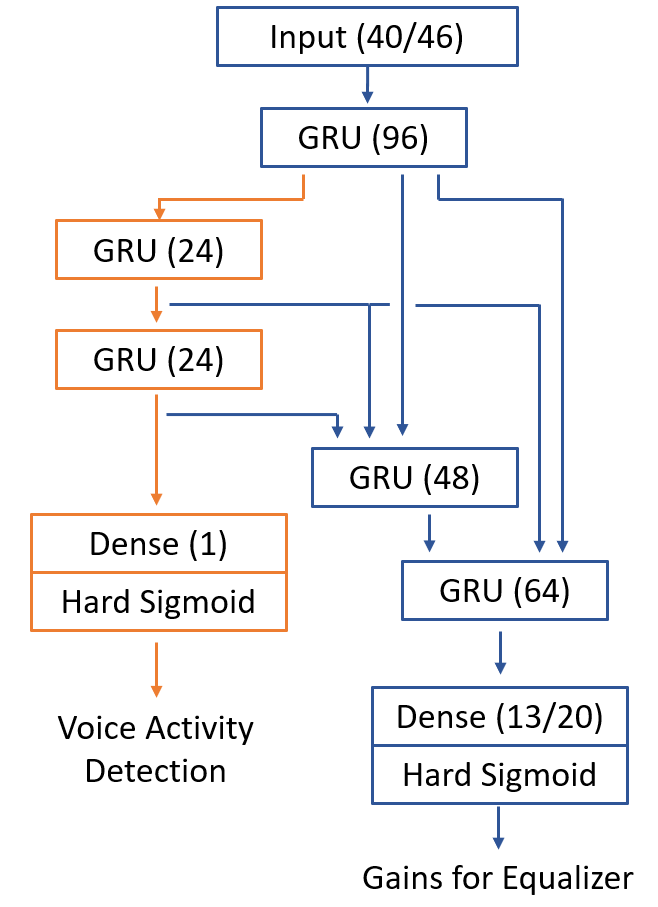
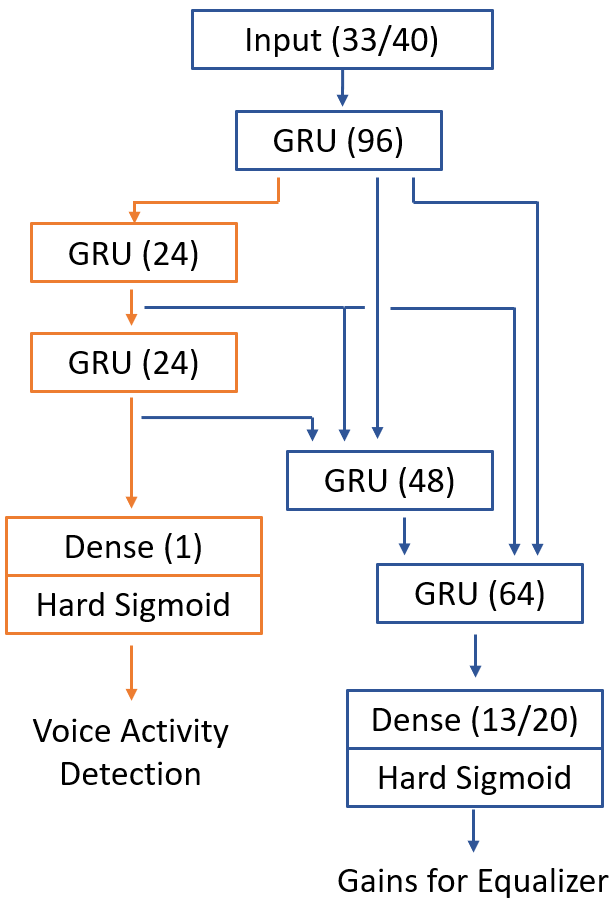
Update doc

Changed region(s): [[0.0, 0.0, 0.9886, 1.0]]

diff --git a/examples/rnn-denoise/README.md b/examples/rnn-denoise/README.md
@@ -2,26 +2,28 @@
 
 Also know as `rnn-denoise example`. 
 
-This example is partially based on the methodology provided by the well-known [RNNoise](https://jmvalin.ca/demo/rnnoise/) project, [paper](https://arxiv.org/abs/1709.08243). Great thanks to them!
+This example is partially based on the methodology provided by the well-known [RNNoise](https://jmvalin.ca/demo/rnnoise/) project and their [paper](https://arxiv.org/abs/1709.08243) . Great thanks to them!
 
 # A few key points before you start
 
 ## How does denoise works with Neural Network?
 
-The [RNNoise](https://jmvalin.ca/demo/rnnoise/) and the paper already explain the methodology we used in this project. 
+The [RNNoise](https://jmvalin.ca/demo/rnnoise/)  has already explained the methodology we used in this project. 
 
-Basically, we use the neural network model to control an audio Equalizer (EQ) in a very high frequency, therefore to suppress those bands contained noise. 
+Basically, we use a neural network model to control an audio Equalizer (EQ) in a very high frequency, therefore to suppress those bands contained noise while keep the gains contain speech. 
 
-Unlike the conventional neural networks output the signal directly, our NN model instead output the gains for each filter band in Equalizer.
+Unlike the conventional neural networks output the signal directly, our NN model instead output the gains for each filter band in the equalizer.
 
-The NN model uses the Mel-Scale to detect MFCC to determine the gains, instead of Opus scale (RNNoise) or Bark scale. 
+The example uses MFCC (Mel-scale) to determine the gains, instead of Opus scale (RNNoise) or Bark scale. 
+
+![](figures/general_workflow.png)
 
 
 # Step by step Guide
 
 ## Get the Noisy Speech
 
-This example uses [Microsoft Scalable Noisy Speech Dataset](https://github.com/microsoft/MS-SNSD)(MS-SNSD). If you want to train your own model, you shall download the data set from the above link then put them in folder `MS-SNSD/`.
+This example uses [Microsoft Scalable Noisy Speech Dataset](https://github.com/microsoft/MS-SNSD) (MS-SNSD). If you want to train your own model, you shall download the data set from the above repository then put them in folder `MS-SNSD/`.
 
 Then generate the `clean speech` and its corresponding `noisy speech` (These are used to generate the noisy MFCC and gains.).
 
@@ -39,13 +41,13 @@ total_snrlevels: 3
 
 Then run `noisyspeech_synthesizer.py` to generate the speeches. If everything goes well, there will be 3 new folders created `/Noise_training`, `/CleanSpeech_training` and `NoisySpeech_training`. We only need the 2 later folders. 
 
-## Get dataset
+## Generate the dataset
 
-Now we have Clean and Noisy speech located in `MS-SNSD/CleanSpeech_training` and `MS-SNSD/NoisySpeech_training`. However, our NN take MFCC as input and gain as output, we need to process them. 
+Now we have Clean and Noisy speech located in `MS-SNSD/CleanSpeech_training` and `MS-SNSD/NoisySpeech_training`. However, our NN take MFCCs and their derivatives as input and gain as output, so we need to process them to get our training dataset. 
 
 Now we need to run `gen_dataset.py` to calculate the MFCC and gains. It will generate the dataset file `dataset.npz` which can be used later for NN training. 
 
-In addition, `gen_dataset.py` also generates an audio file `_noisy_sample.wav` which is the raw noisy speech, as well as a filtered file filtered using the truth gains `_filtered_sample.wav`. I recommend you to check both and see what is the best result we can get using this equalizer principle. 
+In addition, `gen_dataset.py` also generates an audio file `_noisy_sample.wav` which is the raw noisy speech, as well as a filtered file filtered using the truth gains `_filtered_sample.wav`. I recommend you to check both and see what is the best result we can get by using this equalizer suppression principle. 
 
 ## Training
 
@@ -57,13 +59,13 @@ Also, it will use the NNoM model converter script ` generate_model(...)` to gene
 
 ## Inference using NNoM
 
-This example provided a `SConstruct` so you can run `scons` in this folder to build an Binary executable. 
+This example provided a `SConstruct` so you can run `scons` in this folder to build a binary executable. 
 
 This executable can take `.wav` file as input and output the filtered `.wav` file. (The **only** format it supports is `16kHz, 1CH, wav`)
 
 Use the below command in the folder to run
 - Win powershell: `.\rnn-denoise [input_file] [output_file]`
-- Linux: I dont know 
+- Linux: I don't know 
 
 i.e. run `.\rnn-denoise _noisy_sample.wav _nn_fixedpoit_filtered_sample.wav`
 
@@ -88,6 +90,8 @@ Overall, I would suggest you go through both python code, `gen_dataset.py` and `
 ## training data
 
 `x_train` is consist of 13 or 20 MFCC coefficent and the first and second derivative of the first 10 coefficent, giving in total 33 or 40 features.  
+
+![](figures/speech_to_dataset.png)
 
 `y_train` is consist of 2 data, `gains` and `VAD`. 
 - Gains are calculate by the sqaure root of each band energy of clean speech / noisy speech. Same as RNNoise. 
